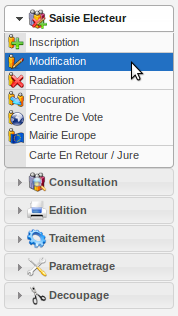
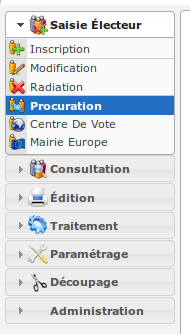
Met à jour les captures d'écran de la version 5 et ajoute un paragraphe sur le tableau de bord

diff --git a/source/manuel_utilisateur/preambule/index.rst b/source/manuel_utilisateur/preambule/index.rst
@@ -269,3 +269,25 @@ message expliquant la réussite de la déconnexion.
 .. figure:: deconnexion_message_ok.png
     
     Message de déconnexion réussie
+
+
+
+
+.. _tableau_de_bord:
+
+***************
+Tableau de bord
+***************
+
+Le tableau de bord est composé de plusieurs blocs d'informations appelés widget qui permettent à l'utilisateur de visualiser rapidement des informations transverses.
+
+.. image:: tableau-de-bord-exemple.png
+
+La disposition des widgets est propre à chaque profil et peut être modifiée très facilement par l'administrateur. Il est donc possible pour les services de modifier la disposition (suppression de widget / déplacement de widget).
+
+
+=======
+Widgets
+=======
+
+
